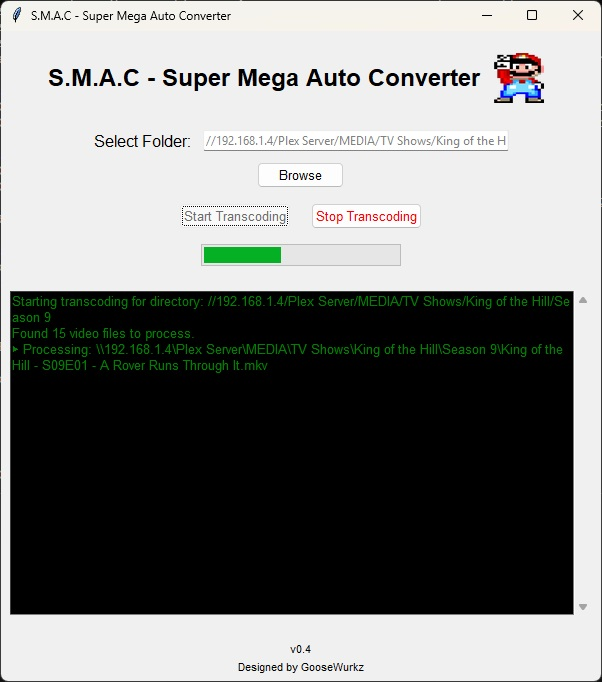
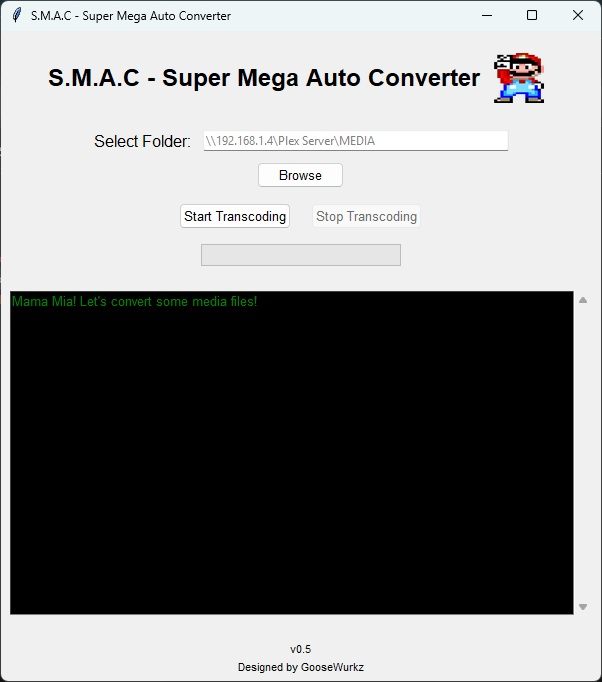
v0.5

diff --git a/transcode_gui.py b/transcode_gui.py
@@ -30,15 +30,16 @@ FINISH_SOUND = os.path.join(SCRIPT_DIR, "sounds", "jobs_done.mp3")
 ERROR_SOUND = os.path.join(SCRIPT_DIR, "sounds", "bmw-bong.mp3")
 
 # Version number
-VERSION = "v0.4"
+VERSION = "v0.5"
 
-# Global flag to control transcoding and animation
+# Global flags and subprocess list
 stop_transcoding = False
 is_animating = False
+subprocesses = []
 
 def process_video(filepath: Path, progress, task_id, app):
     """Run HandBrakeCLI on a single video file and replace it with the processed version."""
-    global stop_transcoding, is_animating
+    global stop_transcoding, is_animating, subprocesses
     if stop_transcoding:
         log_queue.put("⛔ Transcoding stopped by user")
         return False
@@ -65,26 +66,32 @@ def process_video(filepath: Path, progress, task_id, app):
     
     # Validate input file with HandBrakeCLI scan
     try:
-        scan_result = subprocess.run([
+        scan_proc = subprocess.Popen([
             HANDBRAKE_CLI,
             "-i", str(filepath),
             "--scan"
-        ], stdout=subprocess.PIPE, stderr=subprocess.PIPE, text=True, timeout=300, creationflags=subprocess.CREATE_NO_WINDOW)
-        if scan_result.returncode != 0:
+        ], stdout=subprocess.PIPE, stderr=subprocess.PIPE, text=True, creationflags=subprocess.CREATE_NO_WINDOW)
+        subprocesses.append(scan_proc)
+        stdout, stderr = scan_proc.communicate(timeout=300)
+        if scan_proc.returncode != 0:
             log_queue.put(f"❌ Invalid video file {filepath}: HandBrake scan failed")
-            log_queue.put(f"STDERR: {scan_result.stderr}")
+            log_queue.put(f"STDERR: {stderr}")
             try:
                 pygame.mixer.Sound(ERROR_SOUND).play()
             except Exception as e:
                 log_queue.put(f"❌ Error playing sound {ERROR_SOUND}: {str(e)}")
+            subprocesses.remove(scan_proc)
             progress.update(task_id, advance=1)
             return True
+        subprocesses.remove(scan_proc)
     except Exception as e:
         log_queue.put(f"❌ Error scanning {filepath}: {str(e)}")
         try:
             pygame.mixer.Sound(ERROR_SOUND).play()
         except Exception as e:
             log_queue.put(f"❌ Error playing sound {ERROR_SOUND}: {str(e)}")
+        if scan_proc in subprocesses:
+            subprocesses.remove(scan_proc)
         progress.update(task_id, advance=1)
         return True
     
@@ -102,7 +109,7 @@ def process_video(filepath: Path, progress, task_id, app):
     app.root.after(100, update_progress)
     
     try:
-        result = subprocess.run([
+        encode_proc = subprocess.Popen([
             HANDBRAKE_CLI,
             "-i", str(filepath),
             "-o", str(temp_output),
@@ -122,7 +129,25 @@ def process_video(filepath: Path, progress, task_id, app):
             "--audio-lang-list", "eng",
             "--subtitle-burned",
             "--no-markers"
-        ], stdout=subprocess.PIPE, stderr=subprocess.PIPE, text=True, timeout=3600, creationflags=subprocess.CREATE_NO_WINDOW)
+        ], stdout=subprocess.PIPE, stderr=subprocess.PIPE, text=True, creationflags=subprocess.CREATE_NO_WINDOW)
+        subprocesses.append(encode_proc)
+        stdout, stderr = encode_proc.communicate(timeout=3600)
+        if encode_proc.returncode != 0 or not temp_output.exists() or temp_output.stat().st_size == 0:
+            log_queue.put(f"❌ Error processing {filepath}: HandBrake failed or output invalid")
+            log_queue.put(f"STDERR: {stderr}")
+            log_queue.put(f"STDOUT: {stdout}")
+            if temp_output.exists():
+                temp_output.unlink()
+            try:
+                pygame.mixer.Sound(ERROR_SOUND).play()
+            except Exception as e:
+                log_queue.put(f"❌ Error playing sound {ERROR_SOUND}: {str(e)}")
+            is_animating = False
+            app.progress_bar['value'] = 0
+            subprocesses.remove(encode_proc)
+            progress.update(task_id, advance=1)
+            return True
+        subprocesses.remove(encode_proc)
     except subprocess.TimeoutExpired:
         log_queue.put(f"❌ Timeout processing {filepath}: HandBrake took too long")
         if temp_output.exists():
@@ -131,6 +156,8 @@ def process_video(filepath: Path, progress, task_id, app):
             pygame.mixer.Sound(ERROR_SOUND).play()
         except Exception as e:
             log_queue.put(f"❌ Error playing sound {ERROR_SOUND}: {str(e)}")
+        if encode_proc in subprocesses:
+            subprocesses.remove(encode_proc)
         is_animating = False
         app.progress_bar['value'] = 0
         progress.update(task_id, advance=1)
@@ -143,6 +170,8 @@ def process_video(filepath: Path, progress, task_id, app):
             pygame.mixer.Sound(ERROR_SOUND).play()
         except Exception as e:
             log_queue.put(f"❌ Error playing sound {ERROR_SOUND}: {str(e)}")
+        if encode_proc in subprocesses:
+            subprocesses.remove(encode_proc)
         is_animating = False
         app.progress_bar['value'] = 0
         progress.update(task_id, advance=1)
@@ -154,22 +183,9 @@ def process_video(filepath: Path, progress, task_id, app):
             temp_output.unlink()
         is_animating = False
         app.progress_bar['value'] = 0
+        if encode_proc in subprocesses:
+            subprocesses.remove(encode_proc)
         return False
-    
-    if result.returncode != 0 or not temp_output.exists() or temp_output.stat().st_size == 0:
-        log_queue.put(f"❌ Error processing {filepath}: HandBrake failed or output invalid")
-        log_queue.put(f"STDERR: {result.stderr}")
-        log_queue.put(f"STDOUT: {result.stdout}")
-        if temp_output.exists():
-            temp_output.unlink()
-        try:
-            pygame.mixer.Sound(ERROR_SOUND).play()
-        except Exception as e:
-            log_queue.put(f"❌ Error playing sound {ERROR_SOUND}: {str(e)}")
-        is_animating = False
-        app.progress_bar['value'] = 0
-        progress.update(task_id, advance=1)
-        return True
     
     log_queue.put(f"✅ Finished: {temp_output}")
     if temp_output.exists() and temp_output.stat().st_size > 0:
@@ -206,7 +222,7 @@ def collect_files(root_dir: Path):
 
 def run_transcode(directory, log_text, app):
     """Run the transcoding process for the given directory."""
-    global stop_transcoding, is_animating
+    global stop_transcoding, is_animating, subprocesses
     # Check if HandBrakeCLI exists before starting
     if not os.path.exists(HANDBRAKE_CLI):
         log_queue.put(f"❌ HandBrakeCLI.exe not found at {HANDBRAKE_CLI}. Please ensure it is installed.")
@@ -253,6 +269,14 @@ def run_transcode(directory, log_text, app):
     # Ensure progress bar is stopped
     is_animating = False
     app.progress_bar['value'] = 0
+    # Terminate any remaining subprocesses
+    for proc in subprocesses:
+        try:
+            proc.terminate()
+            proc.wait(timeout=5)
+        except:
+            pass
+    subprocesses.clear()
 
 class TranscodeApp:
     def __init__(self, root):
@@ -329,6 +353,9 @@ class TranscodeApp:
         self.log_thread = threading.Thread(target=self.update_logs)
         self.log_thread.daemon = True
         self.log_thread.start()
+        
+        # Bind window close event
+        self.root.protocol("WM_DELETE_WINDOW", self.on_closing)
 
     def browse_folder(self):
         """Open a native Windows folder picker dialog."""
@@ -339,7 +366,7 @@ class TranscodeApp:
 
     def start_transcode(self):
         """Start the transcoding process in a separate thread."""
-        global stop_transcoding, is_animating
+        global stop_transcoding, is_animating, subprocesses
         stop_transcoding = False
         directory = self.dir_entry.get().strip()
         if not directory or not os.path.exists(directory):
@@ -371,16 +398,30 @@ class TranscodeApp:
                 self.stop_button.config(state='disabled')
                 is_animating = False
                 self.progress_bar['value'] = 0
+                for proc in subprocesses:
+                    try:
+                        proc.terminate()
+                        proc.wait(timeout=5)
+                    except:
+                        pass
+                subprocesses.clear()
         self.root.after(1000, check_thread)
 
     def stop_transcode(self):
         """Stop the transcoding process and animation."""
-        global stop_transcoding, is_animating
+        global stop_transcoding, is_animating, subprocesses
         stop_transcoding = True
         is_animating = False
         self.start_button.config(state='normal')
         self.stop_button.config(state='disabled')
         self.progress_bar['value'] = 0
+        for proc in subprocesses:
+            try:
+                proc.terminate()
+                proc.wait(timeout=5)
+            except:
+                pass
+        subprocesses.clear()
 
     def update_logs(self):
         """Update the log area with messages from the queue."""
@@ -391,6 +432,23 @@ class TranscodeApp:
                 self.log_text.see(tk.END)
             except queue.Empty:
                 continue
+
+    def on_closing(self):
+        """Handle window close event."""
+        global stop_transcoding, is_animating, subprocesses, self.running
+        stop_transcoding = True
+        is_animating = False
+        self.running = False
+        self.progress_bar['value'] = 0
+        for proc in subprocesses:
+            try:
+                proc.terminate()
+                proc.wait(timeout=5)
+            except:
+                pass
+        subprocesses.clear()
+        pygame.mixer.quit()
+        self.root.destroy()
 
     def __del__(self):
         self.running = False
